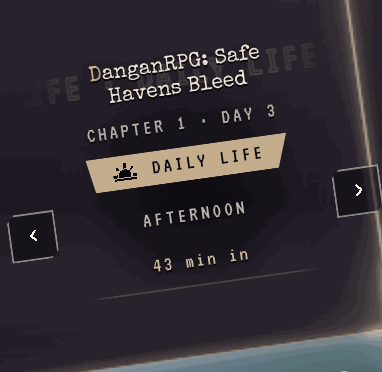
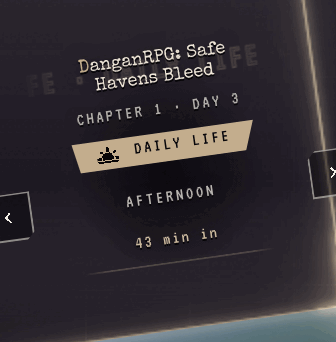
docs/dev/ui-scale-025: the HUD's shots and rows again with ?scale= stamped as applyTheme does; shots/ the glass HUD at 1366x768, 25 % and 50 %; the sweep green at every scale [skip ci]
Claude-Session: https://claude.ai/code/session_01Cq9BoTnShXdAUrtrWWDth4

diff --git a/docs/dev/ui-scale-025/README.md b/docs/dev/ui-scale-025/README.md
@@ -9,10 +9,13 @@ the setting's hint (EN, PL), the line under the slider while it is under 80 %, a
 The pictures: the character sheet, the GM panel and the HUD at 25 % and 50 %, Monokuma Legacy and Stained Glass,
 Chromium at deviceScaleFactor 2, 256 colours. The sheet is the stand-in of docs/dev/traits-115 (Daggerheart 2.12.8's
 stylesheet, the window at 850 or 1120 px times the slider); the GM panel is the style harness's captured window at its
-704 px times the slider; the HUD is the glass harness at 1366x768 with `?scale=`. Every factor is the slider here; at a
-table the glass's geometry also takes the screen's own factor (0.7 to 1). No Foundry stylesheet.
+704 px times the slider; the HUD is the glass harness at 1366x768 with `?scale=`. The sheet and the GM panel take the
+slider as their only factor; at a table the glass's geometry also takes the screen's own factor (0.7 to 1). The HUD's
+four shots were taken again on 15.11.2026, after the glass harness learned to stamp `?scale=` as applyTheme does (the
+slider on the screen's factor, e6c41260); before, they had the slider as the whole factor. `shots/` holds the two the
+coordinator asked for the owner: the HUD under the glass at 1366x768, 25 % and 50 %. No Foundry stylesheet.
 
-## Measured (Chromium, 14.11.2026)
+## Measured (Chromium, 14.11.2026; the HUD's rows 15.11.2026)
 
 | | 25 % | 50 % | 100 % |
 | --- | --- | --- | --- |
@@ -20,14 +23,18 @@ table the glass's geometry also takes the screen's own factor (0.7 to 1). No Fou
 | a window's close button, glass | 35 x 26 | 35 x 26 | 35 x 26 |
 | the smallest type, GM panel Legacy / glass | 2.9 / 5.3 px | 5.8 / 10.5 px | 11 / 21 px |
 | the HUD, Legacy (box, smallest type) | 219 x 96, 3.4 px | 234 x 110, 6.9 px | 430 x 134, 10 px |
-| the HUD, glass | 95 x 138, 3.5 px | 175 x 170, 7 px | 343 x 286, 13.3 px |
+| the HUD, glass | 81 x 126, 2.9 px | 152 x 156, 6 px | 292 x 249, 11.9 px |
 
 audit/glass-sweep.mjs at 1920x1080 and 1366x768, GM and player, both themes, `--page "audit/glass-harness.html?scale=N"`:
-at 100 % green; at 80, 50 and 25 % the corner's launchers found 5 of 5 (3 of 3 for a player), none hidden and none off
-the screen, no pane over another, the notices and the windows ok. Each scale under 100 % reads red on the sweep's pins
-(the room tile's box, the corner's place, the clock's place), which were written at 100 % and are compared as numbers.
+on 14.11.2026, at 100 % green and red under it on the sweep's pins, which were written at 100 %. Since 15.11.2026 (the
+harness's `?scale=` stamped as applyTheme stamps it, the pins read at each slider in glass-sweep.mjs `PINS_AT`, and the
+three faults below fixed) GREEN at 100, 80, 50 and 25 %.
 
-## What does not work at 25 %, measured
+## What did not work at 25 %, measured on 14.11.2026, and what came of it
+
+The voice tile and the sheet's column were fixed on 14.11.2026 (R7334), the room tile on 15.11.2026 (R7335): beside the
+notices its toggle, pips and paddings kept their pixels while its box shrank, so at 25 % they lay over the name, and at
+50 % on 1366x768 the open description was 0.8 lines tall; they follow the slider under 80 % now (4.2 lines there).
 
 - Under the glass the voice tile is drawn 65 x 94 px: its microphone button stands outside it (x -7) and the speaker's
   name shows 0 px of its 72. At 50 % it holds.
